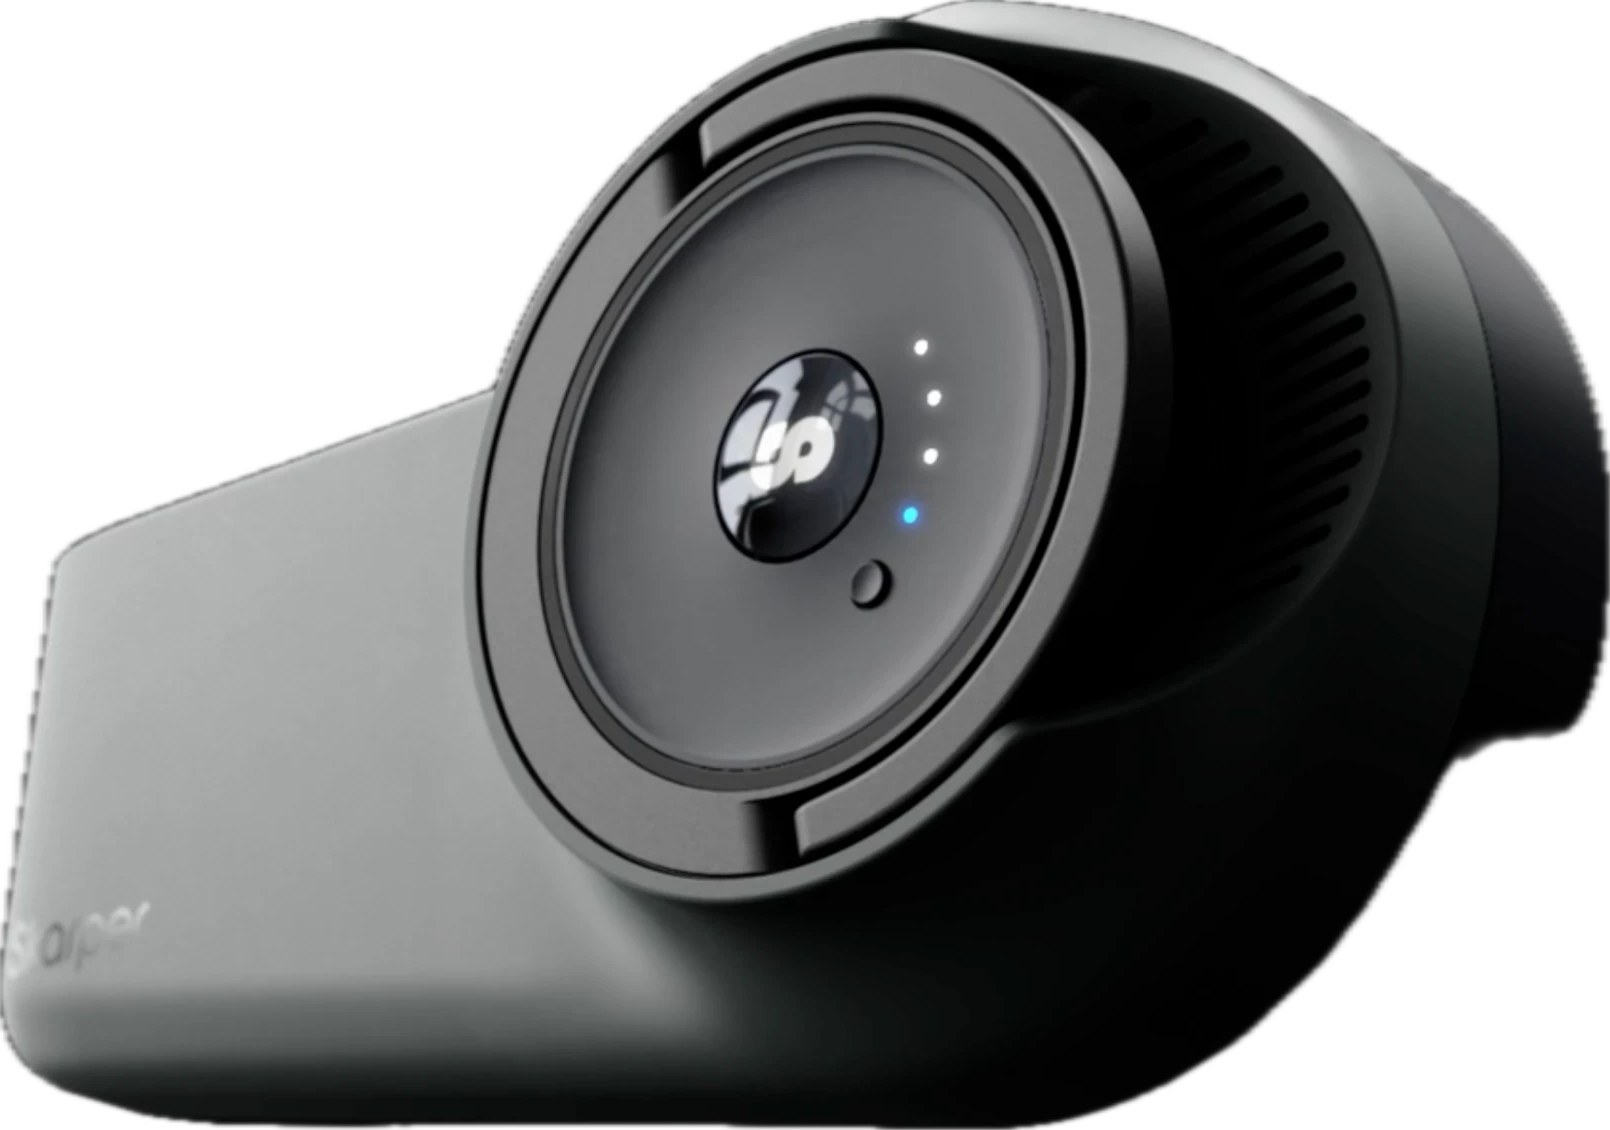
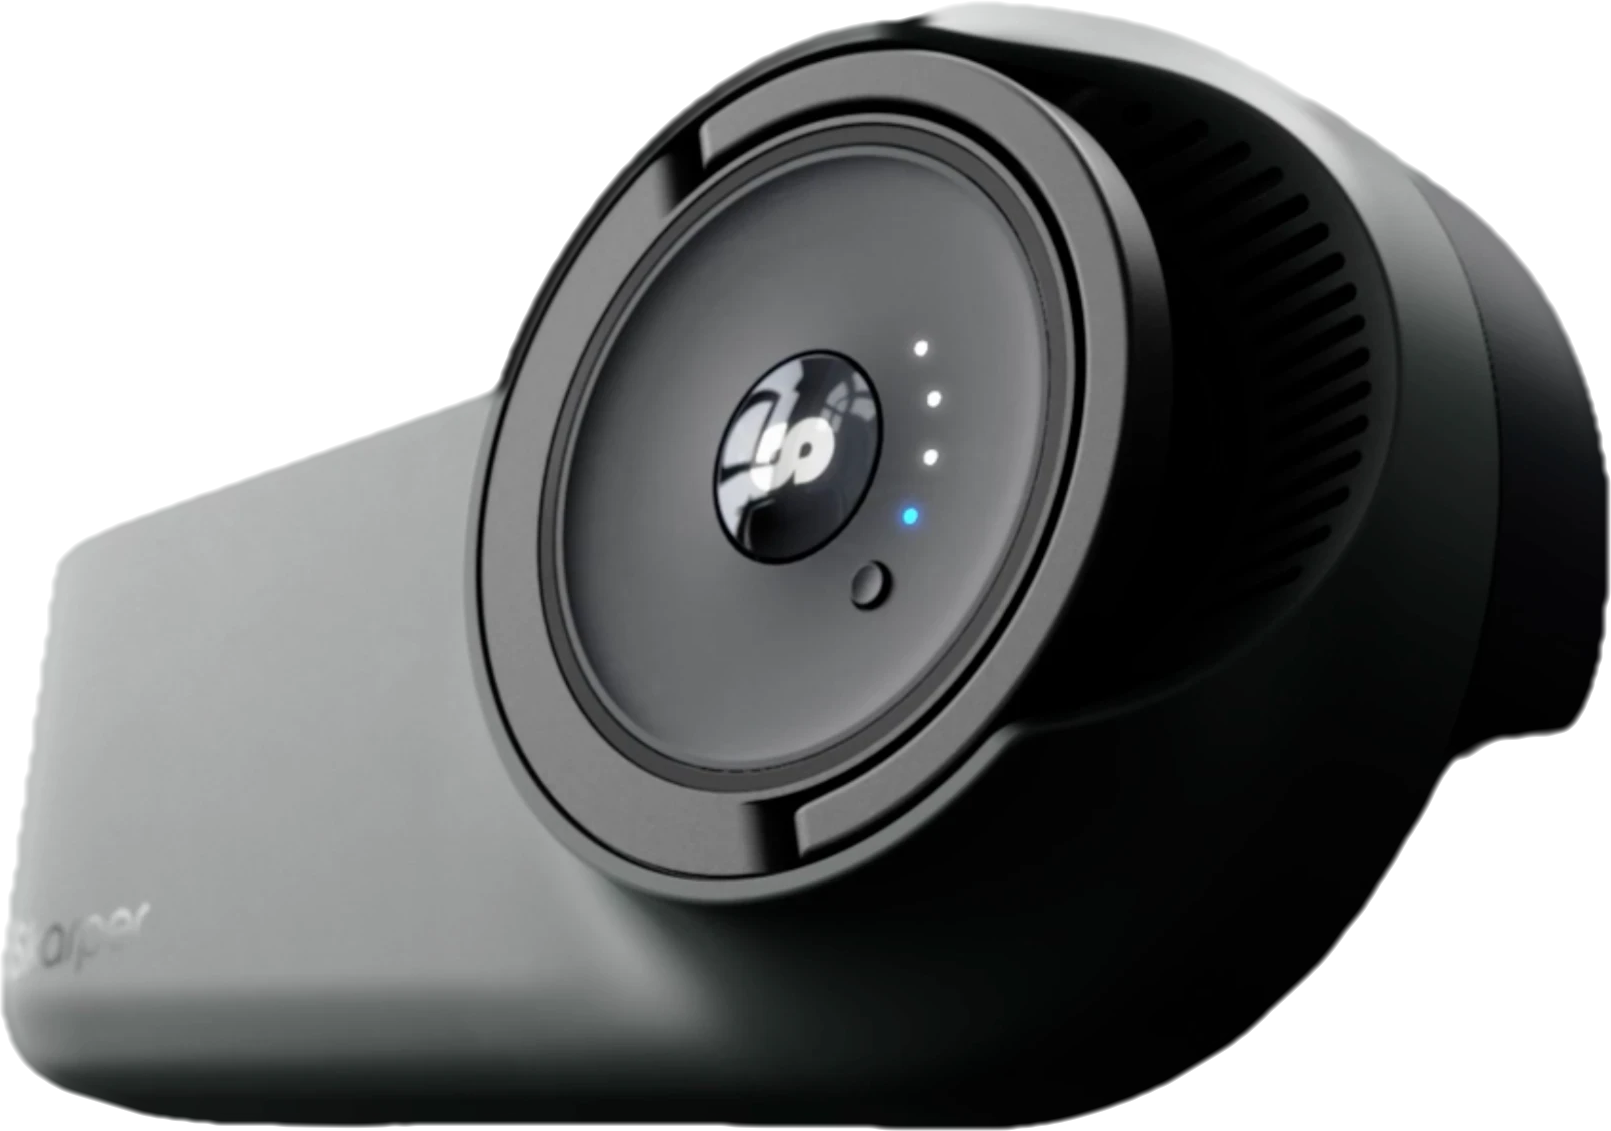
Skarper 2021-24: the note in Jakub's words; a clean cut-out with a shadow
The drive unit's edge is rebuilt from Vision's full-resolution mask:
smoothed to remove the upscaled mask's stair-steps, choked inside the
render's dark falloff, and the rim recoloured from the interior so no black
from the old background fringes the light page. A two-layer drop shadow
(contact and soft) seats it on the page.

diff --git a/src/data/site.ts b/src/data/site.ts
@@ -122,7 +122,7 @@ export const journey: Chapter[] = [
     },
     snippet: {
       caption: 'Lean-compensated road gradient (C)',
-      note: 'Assistance follows the road gradient, read from an IMU in the frame. The accelerometer only sees gravity, and when the bike leans into a corner part of that reading moves onto the sensor’s `lat` axis. The `up` share shrinks, so a naive estimate reads every climb steeper than it is. `roadGradient` measures the `lean`, rolls the reading back into the bike’s plane with `rodrigues(fwd, -lean)`, and returns the slope alone.',
+      note: 'Assistance follows the road gradient, read from an IMU in the Skarper unit. The accelerometer only sees gravity and the bike’s speed changes, and when the bike leans into a corner part of the gravity reading moves onto the sensor’s `lat` axis. The `up` share shrinks, so a naive estimate reads every climb steeper than it is. `roadGradient` measures the `lean`, rolls the reading back into the bike’s plane with `rodrigues(fwd, -lean)`, and returns the slope alone. All that while compensating for speed and vibration artefacts.',
       figure: 'lean',
       lang: 'c',
       code: `// Rotation by angle a about unit axis k: R = cos(a) I + sin(a) [k]x + (1 - cos(a)) k k^T

diff --git a/src/styles/global.css b/src/styles/global.css
@@ -292,6 +292,8 @@ ul {
 .photo-cutout img {
   object-fit: contain;
   background: none;
+  /* A close contact shadow and a soft one further off, so it sits on the page. */
+  filter: drop-shadow(0 4px 5px rgba(11, 15, 12, 0.16)) drop-shadow(0 26px 30px rgba(11, 15, 12, 0.2));
 }
 
 .photo-square img,
